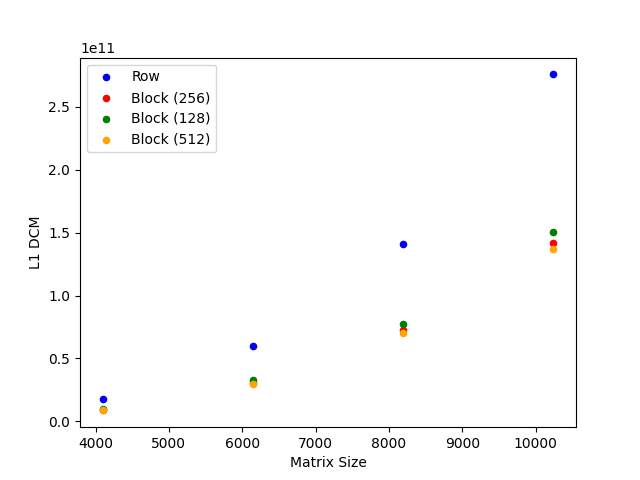
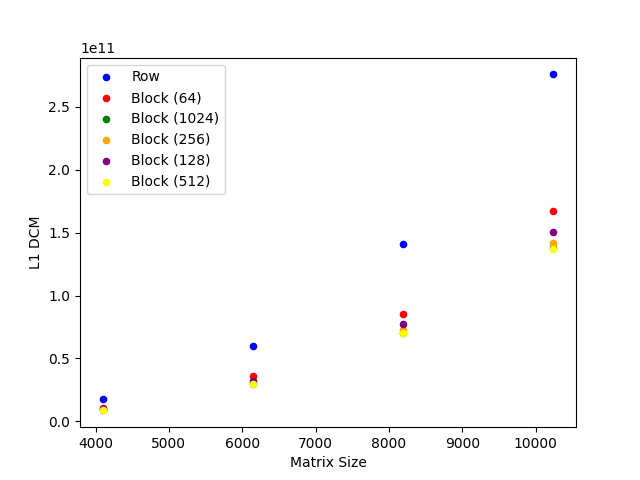
New results and plots

diff --git a/src/matrixprod.cpp b/src/matrixprod.cpp
@@ -54,7 +54,7 @@ double optimCycle(double* op1Matrix, double* op2Matrix, double* resMatrix, int m
   return (double)(Time2 - Time1) / CLOCKS_PER_SEC;
 }
 
-double blockSimpleCycle(double* op1Matrix, double* op2Matrix, double* resMatrix,
+double blockCycle(double* op1Matrix, double* op2Matrix, double* resMatrix,
                   int matrixSize, int blockSize) {
   SYSTEMTIME Time1, Time2;
   Time1 = clock();
@@ -80,7 +80,7 @@ double blockSimpleCycle(double* op1Matrix, double* op2Matrix, double* resMatrix,
   return (double) (Time2 - Time1) / CLOCKS_PER_SEC;
 }
 
-double blockOptimCycle(double* op1Matrix, double* op2Matrix, double* resMatrix,
+double blockBookCycle(double* op1Matrix, double* op2Matrix, double* resMatrix,
                   int matrixSize, int blockSize) {
 
   SYSTEMTIME Time1, Time2;
@@ -187,10 +187,10 @@ int main(int argc, char *argv[]) {
         algorithmTime = optimCycle(op1Matrix, op2Matrix, resMatrix, matrixSize);
         break;
       case 3:
-        algorithmTime = blockSimpleCycle(op1Matrix, op2Matrix, resMatrix, matrixSize, blockSize);
+        algorithmTime = blockCycle(op1Matrix, op2Matrix, resMatrix, matrixSize, blockSize);
         break;
       case 4:
-        algorithmTime = blockOptimCycle(op1Matrix, op2Matrix, resMatrix, matrixSize, blockSize);
+        algorithmTime = blockBookCycle(op1Matrix, op2Matrix, resMatrix, matrixSize, blockSize);
         break;
     }
 

diff --git a/plotter.py b/plotter.py
@@ -12,7 +12,7 @@ os.makedirs(path.join(dir, 'plots'), exist_ok=True)
 exp_1 = 'exp_1_2021-03-15 19:16:26.210611.csv'
 exp_2a = 'exp_2a_2021-03-15 19:22:26.269138.csv'
 exp_2b = 'exp_2b_2021-03-15 20:52:59.217319.csv'
-exp_3 = 'exp_3_2021-03-16 00:33:23.159561.csv'
+exp_3 = 'exp_3_2021-03-19 19:57:56.211959.csv'
 
 df_1 = pd.read_csv(path.join(results_dir, exp_1))
 df_2a = pd.read_csv(path.join(results_dir, exp_2a))
@@ -68,7 +68,7 @@ def plot_algorithm_comparison(dataframe, comp_column, save_path, m_size_min=None
         cpp_df = cpp_df[cpp_df['Matrix Size'].between(m_size_min, m_size_max, inclusive=True)]
 
     algs = set(cpp_df['Algorithm'])
-    colors = ['blue', 'red', 'green', 'orange', 'purple']
+    colors = ['blue', 'red', 'green', 'orange', 'purple', 'yellow']
     ax = None
 
     for alg, color in zip(algs, colors):
@@ -85,7 +85,7 @@ def plot_lang_comparison(dataframe, comp_column, alg, save_path, m_size_min=None
         alg_df = alg_df[alg_df['Matrix Size'].between(m_size_min, m_size_max, inclusive=True)]
 
     langs = set(alg_df['Language'])
-    colors = ['blue', 'red', 'green', 'orange', 'purple']
+    colors = ['blue', 'red', 'green', 'orange', 'purple', 'yellow']
 
     ax = None
     for lang, color in zip(langs, colors):
